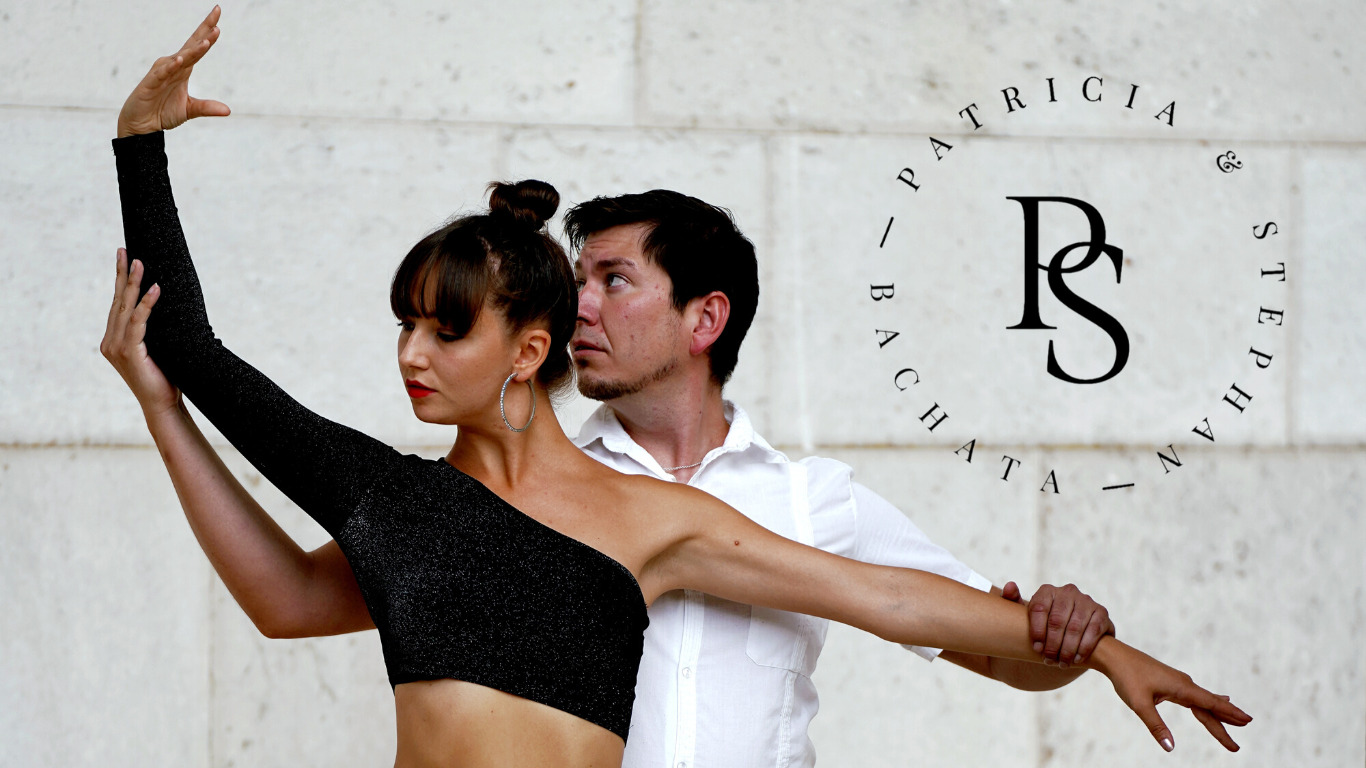
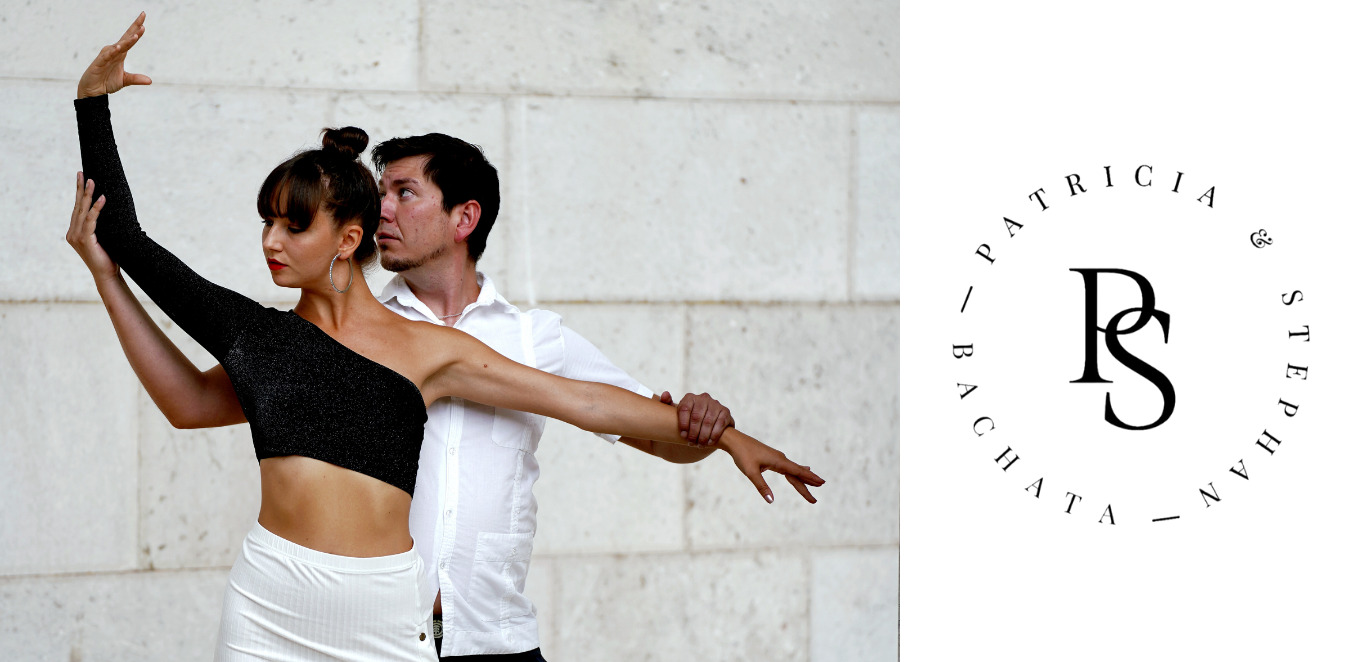
changed slide 1 with image and content

diff --git a/index.html b/index.html
@@ -111,9 +111,6 @@
             <div class="carousel-container">
               <div class="carousel-content">
                 <h2 class="animate__animated animate__fadeInDown"><span>Patricia & Stephan</span> Artists</h2>
-                <p class="animate__animated animate__fadeInUp">Ut velit est quam dolor ad a aliquid qui aliquid. Sequi ea ut et est
-                  quaerat sequi nihil ut aliquam. Occaecati alias dolorem mollitia ut. Similique ea voluptatem. Esse
-                  doloremque accusamus repellendus deleniti vel. Minus et tempore modi architecto.</p>
                 <div>
                   <a href="#menu" class="btn-menu animate__animated animate__fadeInUp scrollto">Our Menu</a>
                   <a href="#book-a-table" class="btn-book animate__animated animate__fadeInUp scrollto">Book a Table</a>
